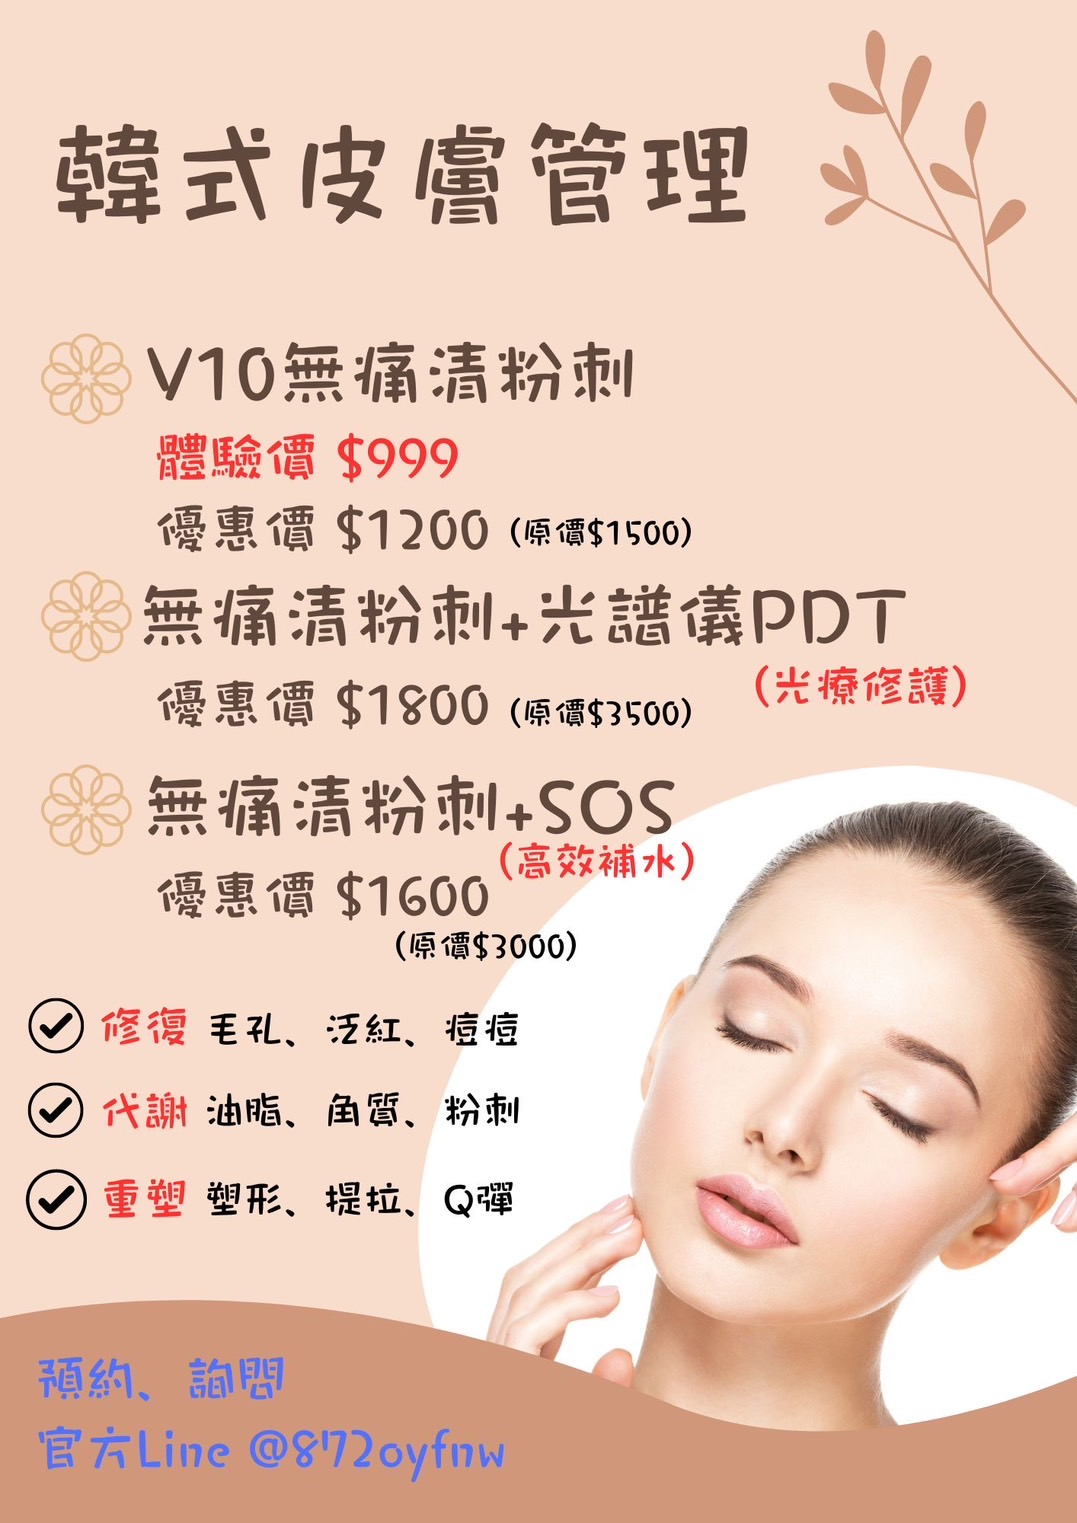
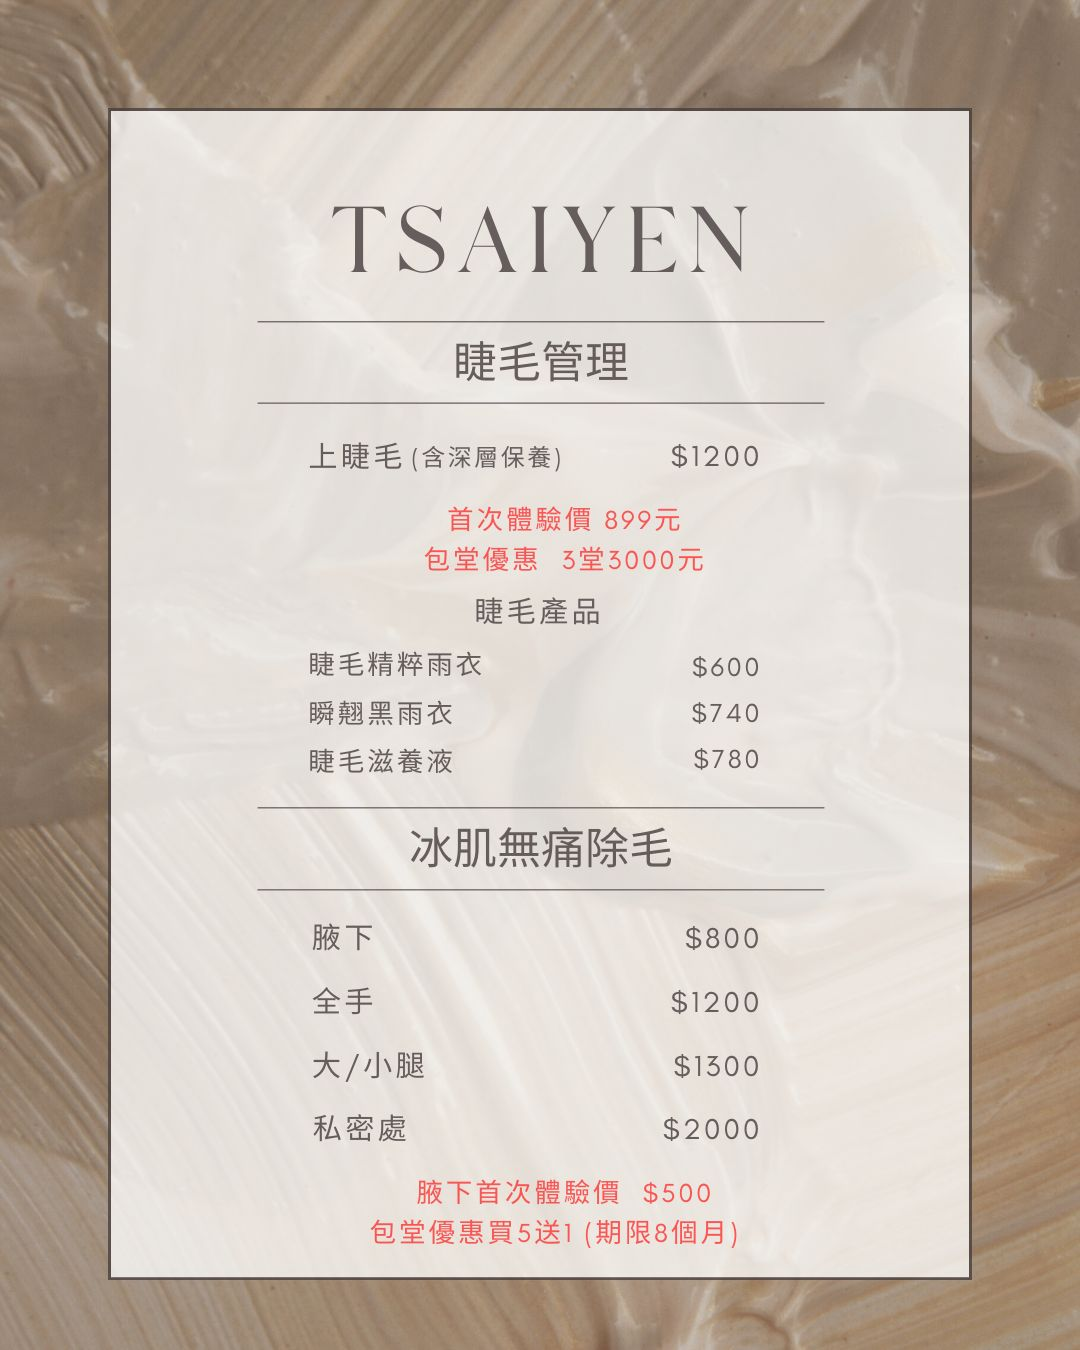
update image

diff --git a/spaprice.html b/spaprice.html
@@ -7,9 +7,7 @@
 <body>
     <center>
     <p><img alt="" src="img/YoJ1.jpg" style="width: 700px" /><img alt="" src="img/YoJ2.jpg" style="width: 700px"/></p>
-    <p><img alt="" src="img/YoJ3.jpg" style="width: 700px"/><img alt="" src="img/YoJ4.jpg" style="width: 700px" /></p>
-    <p><img alt="" src="img/YoJ5.jpg" style="width: 700px"/><img alt="" src="img/YoJ6.jpg" style="width: 700px"/></p>
-    <p><img alt="" src="img/YoJ7.jpg" style="width: 700px"/><img alt="" src="img/YoJ8.jpg" style="width: 700px"/></p>
+    <p><img alt="" src="img/YoJ3.jpg" style="width: 700px"/></p>
     </center>
 </body>
 </html>
